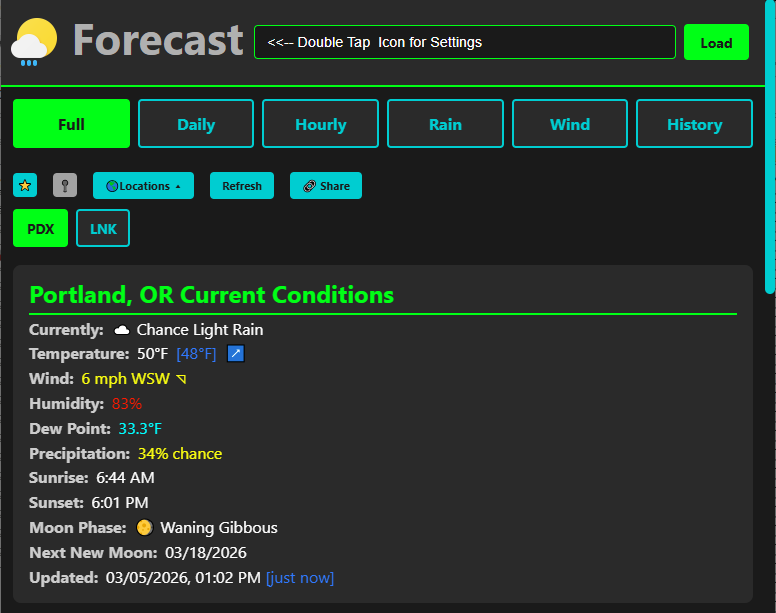
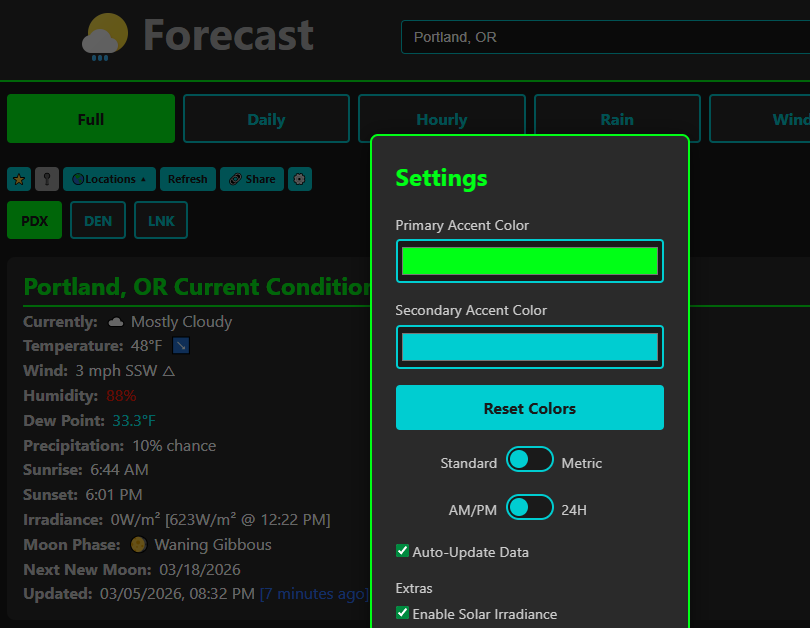
chore: update version to 1.3.3 and add reset colors button
- Updated version number in manifest.json and service-worker.js to 1.3.3 for release.
- Added a "Reset Colors" button in index.html to allow users to revert to default color settings.
- Enhanced CSS for the reset button to improve layout and usability.
- Updated app.js to handle the reset colors functionality, clearing user-set color preferences.

diff --git a/forecast/js/app.js b/forecast/js/app.js
@@ -69,6 +69,7 @@ function initializeElements() {
         configModal: document.getElementById('configModal'),
         primaryAccentColor: document.getElementById('primaryAccentColor'),
         secondaryAccentColor: document.getElementById('secondaryAccentColor'),
+        configModalResetColors: document.getElementById('configModalResetColors'),
         irradianceCheckbox: document.getElementById('irradianceCheckbox'),
         unitsMetricCheckbox: document.getElementById('unitsMetricCheckbox'),
         time24Checkbox: document.getElementById('time24Checkbox'),
@@ -132,11 +133,15 @@ function performFullReset() {
         // Clear current mode (will reset to default)
         localStorage.removeItem('forecastCurrentMode');
 
-        // Clear units, time format, and favorites drawer state so reload uses defaults
+        // Clear all settings so reload uses defaults (colors, units, time format, irradiance, auto-update, drawer)
+        localStorage.removeItem('forecastAccentPrimary');
+        localStorage.removeItem('forecastAccentSecondary');
+        localStorage.removeItem('forecastShowIrradiance');
+        localStorage.removeItem('forecastAutoUpdate');
         localStorage.removeItem('forecastUseMetric');
         localStorage.removeItem('forecastUse24h');
         localStorage.removeItem('forecastLocationsDrawerOpen');
-        
+
         // Clear in-memory cache
         if (appState && appState.cachedWeatherDataByKey) {
             appState.cachedWeatherDataByKey.clear();
@@ -918,6 +923,14 @@ function setupConfigModal() {
             const secondary = e.target.value;
             const primary = (elements.primaryAccentColor && elements.primaryAccentColor.value) || ACCENT_DEFAULTS.primary;
             saveAccentColors(primary, secondary);
+        });
+    }
+    if (elements.configModalResetColors) {
+        elements.configModalResetColors.addEventListener('click', (e) => {
+            e.preventDefault();
+            if (elements.primaryAccentColor) elements.primaryAccentColor.value = ACCENT_DEFAULTS.primary;
+            if (elements.secondaryAccentColor) elements.secondaryAccentColor.value = ACCENT_DEFAULTS.secondary;
+            saveAccentColors(ACCENT_DEFAULTS.primary, ACCENT_DEFAULTS.secondary);
         });
     }
 

diff --git a/forecast/index.html b/forecast/index.html
@@ -83,6 +83,7 @@
                 <label for="secondaryAccentColor">Secondary Accent Color</label>
                 <input type="color" id="secondaryAccentColor" value="#00ced1">
             </div>
+            <button type="button" id="configModalResetColors" class="btn btn-secondary config-reset-colors-btn">Reset Colors</button>
             <div class="config-option config-toggle-row">
                 <span class="config-toggle-label">Standard</span>
                 <label class="config-toggle-pill">

diff --git a/forecast/service-worker.js b/forecast/service-worker.js
@@ -1,4 +1,4 @@
-const VERSION = '1.3.2';
+const VERSION = '1.3.3';
 const CACHE_NAME = `forecast-v${VERSION}`;
 const STATIC_CACHE = `forecast-static-v${VERSION}`;
 const DATA_CACHE = `forecast-data-v${VERSION}`;

diff --git a/forecast/css/style.css b/forecast/css/style.css
@@ -660,6 +660,11 @@ main {
     width: 100%;
 }
 
+.config-reset-colors-btn {
+    margin-bottom: 1rem;
+    width: 100%;
+}
+
 .config-reset-btn {
     margin-top: 0.75rem;
     width: 100%;
